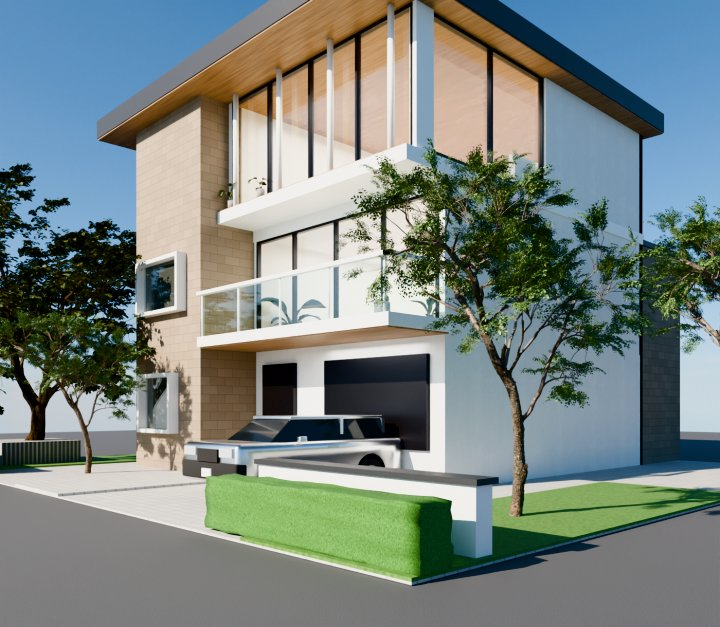
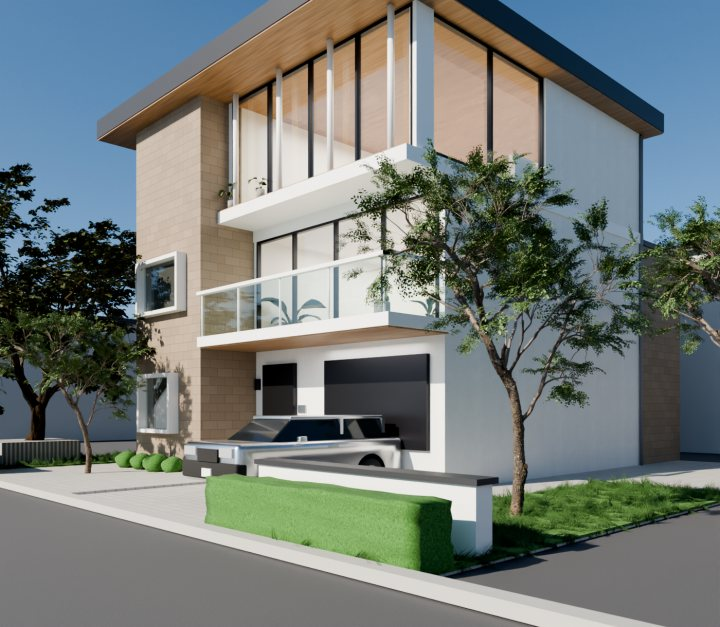
Add 2026-07-14 update to BIENA page (environment & compositing)
Documents the archviz-course-inspired pass: particle grass, background
neighbor houses, curb/shrubs, downspouts/entrance details, camera DoF,
and Blender 5 compositor (fog glow + contrast). Refreshes the works-grid
thumbnail and adds a log entry on the top page.

diff --git a/biena-modeling.html b/biena-modeling.html
@@ -141,7 +141,7 @@
     <section class="case-hero">
       <span class="badge">Blender × Claude Code (MCP)</span>
       <h1>実在モデルハウスを参考にした3Dモデリング検証<br>— 積水ハウス「BIENA（ビエナ）」風</h1>
-      <p class="meta">検証日: 2026-07-06（<a href="#update-20260712" style="color:var(--primary)">2026-07-12 大幅アップデート</a>）／ 使用モデル: Claude Fable 5 ／ 環境: Blender + blender-mcp ／ <a href="ldk-interior.html" style="color:var(--primary)">内観編（リエゾン風LDK）はこちら</a></p>
+      <p class="meta">検証日: 2026-07-06（アップデート: <a href="#update-20260712" style="color:var(--primary)">07-12</a>・<a href="#update-20260714" style="color:var(--primary)">07-14</a>）／ 使用モデル: Claude Fable 5 ／ 環境: Blender + blender-mcp ／ <a href="ldk-interior.html" style="color:var(--primary)">内観編（リエゾン風LDK）はこちら</a></p>
     </section>
 
     <section class="section" style="padding-top:1rem">
@@ -247,6 +247,30 @@ https://www.jutakutenjijo.com/housemakers/sekisuihouse/biena</pre>
         <li><b>カーポートの車を再現</b> — ホイールアーチのくり抜き、ミラー・グリル・バンパー等を備えたシルバーワゴンをプリミティブから造形</li>
         <li><b>照明のHDRI化</b> — Poly Haven の晴天HDRIをパックし、太陽方向をアングルに合わせて最適化。室内はエリアライトで昼景でも内観が沈まない光量に</li>
         <li><b>レンダリング設定</b> — Cycles 128サンプル＋デノイズ、AgX トーンマップ。元サイトと同アングル＋右斜め45度の2構図をプリセット</li>
+      </ul>
+
+    </section>
+
+    <section class="section alt" id="update-20260714">
+      <h2>アップデート（2026-07-14）— 環境構築・コンポジット仕上げ</h2>
+      <p style="max-width:900px;margin:0 auto 1.5rem;font-size:0.9rem;color:var(--text-muted)">
+        建築ビジュアライゼーション講座のワークフロー（基礎モデリング → ディテール → 環境構築 → インテリア → ライティング → コンポジット）を参考に、
+        これまで手薄だった「環境の作り込み」と「レンダリングの後処理」を強化しました。
+      </p>
+
+      <figure class="result-figure">
+        <img src="images/biena_v3_45deg.jpg" alt="環境・コンポジット強化後の最終レンダリング" loading="lazy">
+        <figcaption>最新レンダリング — パーティクル芝・背景の隣家・縁石・植え込みを追加し、被写界深度とグレアで一眼写真らしい仕上げに</figcaption>
+      </figure>
+
+      <h3 style="max-width:900px;margin:2rem auto 1rem;font-size:1.05rem">主な更新内容</h3>
+      <ul class="feature-list">
+        <li><b>パーティクル芝</b> — ベタ塗りだった芝生をヘアーパーティクルの3D芝（親2,200本＋子株）に。根元→先端のグラデーションで自然な色味</li>
+        <li><b>背景の隣家8棟</b> — 空だった地平線に隣家ボリュームを配置し、住宅街の中に建つ実写らしい奥行きを演出</li>
+        <li><b>外構ディテール</b> — 道路との境界に縁石、タイル塔の足元に刈り込み低木4株を追加</li>
+        <li><b>建物ディテール</b> — 雨樋（縦樋）×2、玄関灯（発光シェード）、ステンレス表札、ドアマットを追加</li>
+        <li><b>被写界深度（DoF）</b> — f/4・フォーカス20mで手前の樹木がわずかにボケる、建築写真らしいレンズ表現</li>
+        <li><b>コンポジット</b> — Blender 5の新ノードグループ方式でFog Glowグレア＋コントラスト調整を構築し、F12出力に自動適用</li>
       </ul>
 
       <div style="max-width:900px;margin:0 auto">

diff --git a/index.html b/index.html
@@ -65,7 +65,7 @@
             <div class="work-tags"><span class="work-tag">Blender</span><span class="work-tag">MCP</span><span class="work-tag">フォトリアル</span></div>
             <h3>実在モデルハウスの再現 — BIENA風（外観・内観）</h3>
             <p>URLひとつから積水ハウス「ビエナ」を再現。PBRタイル外壁・ガラス透過・内観造作・フォトスキャン植栽まで対話のみで到達。</p>
-            <span class="work-date">2026-07-06 〜 07-12 更新</span>
+            <span class="work-date">2026-07-06 〜 07-14 更新</span>
           </div>
         </a>
         <a class="work-card" href="suumo-mansion.html">
@@ -141,6 +141,10 @@
     <section id="log" class="section alt">
       <h2>検証ログ</h2>
       <div class="log-list">
+        <div class="log-item">
+          <span class="log-date">2026-07-14</span>
+          <span class="log-content">BIENA風モデルを環境・後処理面で強化 — パーティクル芝・背景の隣家・外構/建物ディテール・被写界深度・コンポジット（アーキビズ講座のワークフローを参考） — <a href="biena-modeling.html#update-20260714" style="color:var(--primary)">詳細を見る</a></span>
+        </div>
         <div class="log-item">
           <span class="log-date">2026-07-13</span>
           <span class="log-content">SUUMO再現マンションを大規模アップデート — タイル外壁・実写PBRテクスチャ・細部作り込み（金網フェンス/布団/電柱/看板）・HDRI環境・コンポジット。クラッシュからのスクリプト自動復旧も検証 — <a href="suumo-mansion.html#update-20260713" style="color:var(--primary)">詳細を見る</a></span>
